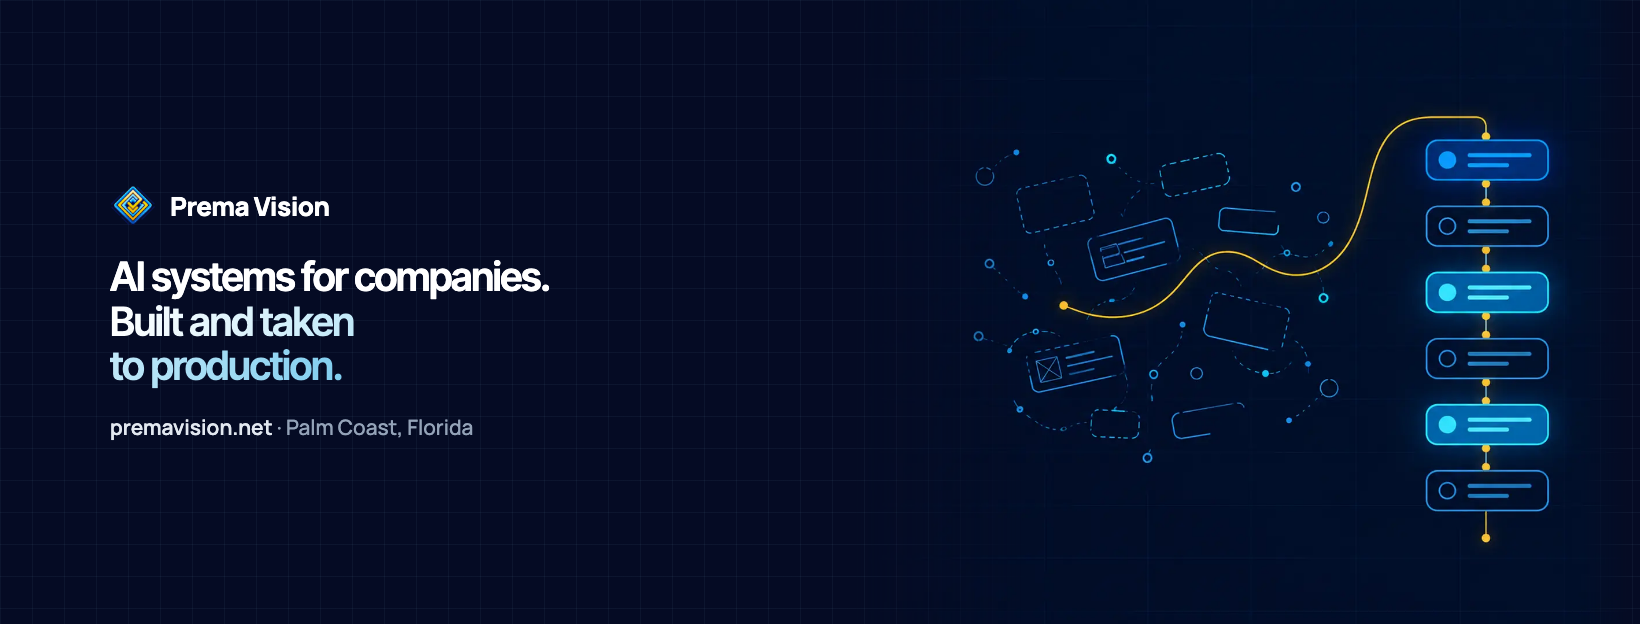
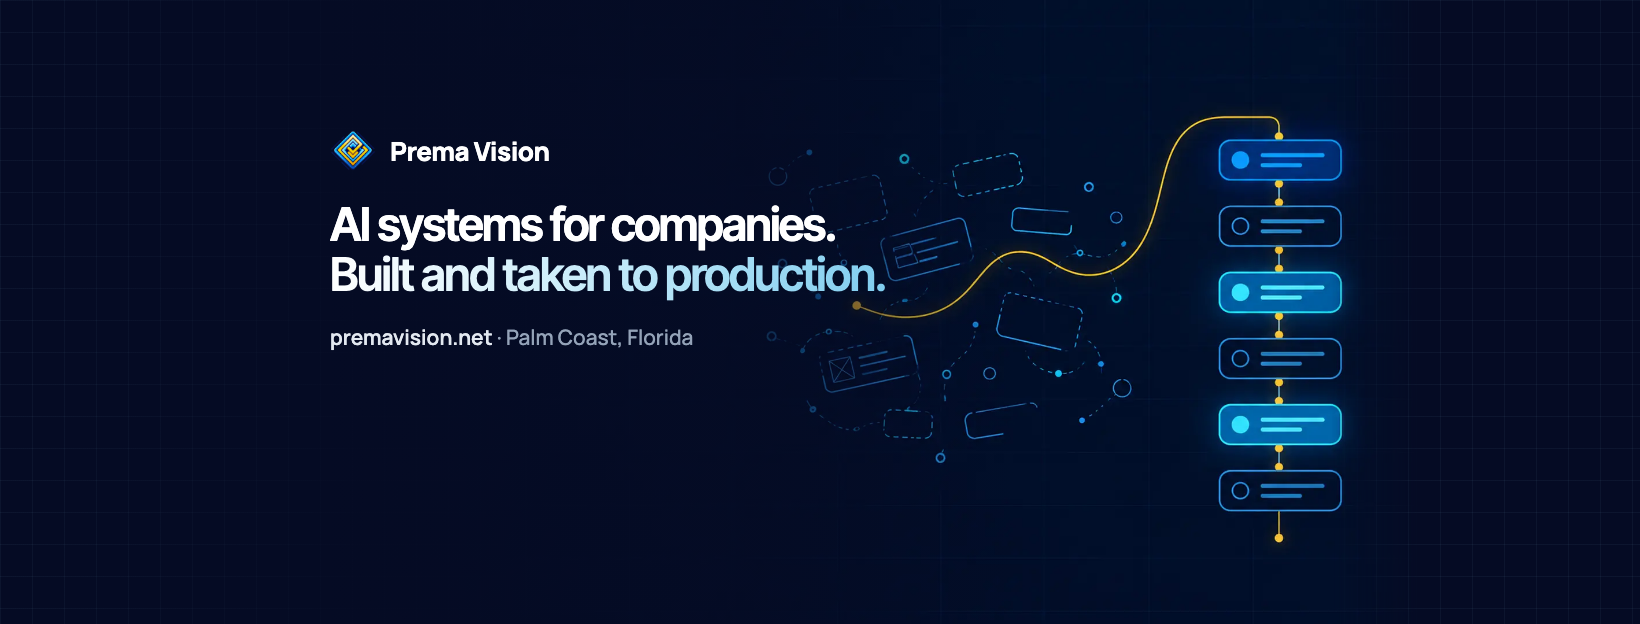
Facebook Page: no phone, cover kept inside the phone crop

diff --git a/og/facebook-cover.html b/og/facebook-cover.html
@@ -3,9 +3,10 @@
      "/Applications/Google Chrome.app/Contents/MacOS/Google Chrome" --headless=new --disable-gpu \
        --hide-scrollbars --force-device-scale-factor=1 --window-size=1640,624 --virtual-time-budget=5000 \
        --screenshot=og/facebook-cover.png "file://$PWD/og/facebook-cover.html"
-     Safe zone: Facebook shows the full cover on phones too, with the profile picture
-     centred over it (about x 550 to 1090 on phones, the bottom middle on desktop),
-     so the text sits left of x 560 and the diagram right of x 1080. -->
+     Safe zone: phones show only the middle 16:9 (about x 265 to 1375), so everything
+     that matters sits in x 330 to 1340. On desktop the profile picture sits below the
+     cover on the left; the creation wizard's preview with a centred circle is not what
+     visitors see. -->
 <html><head><meta charset="utf-8">
 <style>
   @font-face{font-family:Manrope;src:url(../public/fonts/manrope-latin.woff2) format('woff2');font-weight:400 800}
@@ -14,22 +15,23 @@
   html,body{width:1640px;height:624px;overflow:hidden;background:#050B24}
   body{font-family:Manrope,-apple-system,system-ui,sans-serif;color:#fff;position:relative}
   .grid{position:absolute;inset:0;background-image:linear-gradient(to right,rgba(144,216,240,.05) 1px,transparent 1px),linear-gradient(to bottom,rgba(144,216,240,.05) 1px,transparent 1px);background-size:32px 32px}
-  /* hero art at 1110x624: its sketch starts near x 1030 and its diagram ends near x 1560 */
-  .art{position:absolute;top:0;left:517px;width:1110px;height:624px;background:url(../public/img/hero-blueprint.webp) center/cover no-repeat;
-       -webkit-mask-image:linear-gradient(90deg,transparent 30%,#000 46%,#000 96%,transparent 100%);mask-image:linear-gradient(90deg,transparent 30%,#000 46%,#000 96%,transparent 100%)}
-  .copy{position:absolute;left:110px;top:0;bottom:0;width:500px;display:flex;flex-direction:column;justify-content:center}
+  /* hero art scaled to the cover height (1110x624); its diagram ends near x 1360 */
+  .art{position:absolute;top:0;left:310px;width:1110px;height:624px;background:url(../public/img/hero-blueprint.webp) center/cover no-repeat;
+       -webkit-mask-image:linear-gradient(90deg,transparent 0%,#000 20%,#000 92%,transparent 100%);mask-image:linear-gradient(90deg,transparent 0%,#000 20%,#000 92%,transparent 100%)}
+  .fade{position:absolute;inset:0;background:linear-gradient(90deg,rgba(5,11,36,0) 0%,rgba(5,11,36,.92) 22%,rgba(5,11,36,.8) 46%,rgba(5,11,36,0) 62%)}
+  .copy{position:absolute;left:330px;top:128px;width:600px}
   .brand{display:flex;align-items:center;gap:14px;font-weight:800;font-size:26px;letter-spacing:-.02em}
   .brand img{width:46px;height:46px}
-  h1{margin-top:26px;font-family:'Inter Tight',sans-serif;font-size:40px;line-height:1.12;font-weight:600;letter-spacing:-.035em}
+  h1{margin-top:26px;font-family:'Inter Tight',sans-serif;font-size:46px;line-height:1.08;font-weight:600;letter-spacing:-.035em}
   h1 em{font-style:normal;background:linear-gradient(100deg,#ffffff,#c9ecfa 45%,#7fcdef);-webkit-background-clip:text;background-clip:text;color:transparent}
   .meta{margin-top:24px;font-size:21px;color:#94a3b8;font-weight:500}
   .meta b{color:#e2e8f0;font-weight:600}
 </style></head>
 <body>
-  <div class="grid"></div><div class="art"></div>
+  <div class="grid"></div><div class="art"></div><div class="fade"></div>
   <div class="copy">
     <div class="brand"><img src="../public/logo-512.png" alt="">Prema Vision</div>
-    <h1>AI systems for companies.<br><em>Built and taken<br>to production.</em></h1>
+    <h1>AI systems for companies.<br><em>Built and taken to production.</em></h1>
     <p class="meta"><b>premavision.net</b> · Palm Coast, Florida</p>
   </div>
 </body></html>

diff --git a/og/facebook-page.md b/og/facebook-page.md
@@ -1,6 +1,6 @@
 # Facebook Page: Prema Vision (17 Oct 2026)
 
-Live: https://www.facebook.com/premavision (page id 61592978470172). Created 17 Oct 2026 with the setup below. Victoria Von (facebook.com/victoria.v.von) invited with Facebook access, no full control (invite sent 17 Oct 2026, expires in 30 days). Pending: the first post (attach og/facebook-post.jpg).
+Live: https://www.facebook.com/premavision (page id 61592978470172). Created 17 Oct 2026 with the setup below. Victoria Von (facebook.com/victoria.v.von) invited with Facebook access, no full control (invite sent 17 Oct 2026, expires in 30 days). First post prepared with og/facebook-post.jpg; Denys publishes it.
 
 Status: no Prema Vision Page existed under Denys's profile on 17 Oct 2026 (Pages he manages: Fly Under Water, Florida For Fun). facebook.com/premavision looked free.
 
@@ -10,11 +10,11 @@ Status: no Prema Vision Page existed under Denys's profile on 17 Oct 2026 (Pages
 - Categories: Software Company, Information Technology Company
 - Website: https://premavision.net
 - Email: denys@premavision.net
-- Phone: (407) 867-9870
+- Phone: none on the Page (removed 17 Oct 2026); people write through Messenger
 - Location: Palm Coast, FL (no street address; Facebook's service area takes only cities and neighbourhoods, so "across the US" lives in the text)
 - Action button: Contact us, opening https://premavision.net/contact/
 - Profile picture: og/facebook-profile.png (1080x1080, the diamond logo on navy; source og/facebook-profile.html)
-- Cover: og/facebook-cover.png (1640x624; source og/facebook-cover.html)
+- Cover: og/facebook-cover.png (1640x624; source og/facebook-cover.html). Phones show only the middle 16:9, so text and diagram sit in x 330 to 1340
 - Post image: og/facebook-post.jpg (rendered from og/og-source.html; public/og/premavision.jpg is older and still says "Mobile apps with AI inside")
 
 ## Bio (90 of 101 characters)
